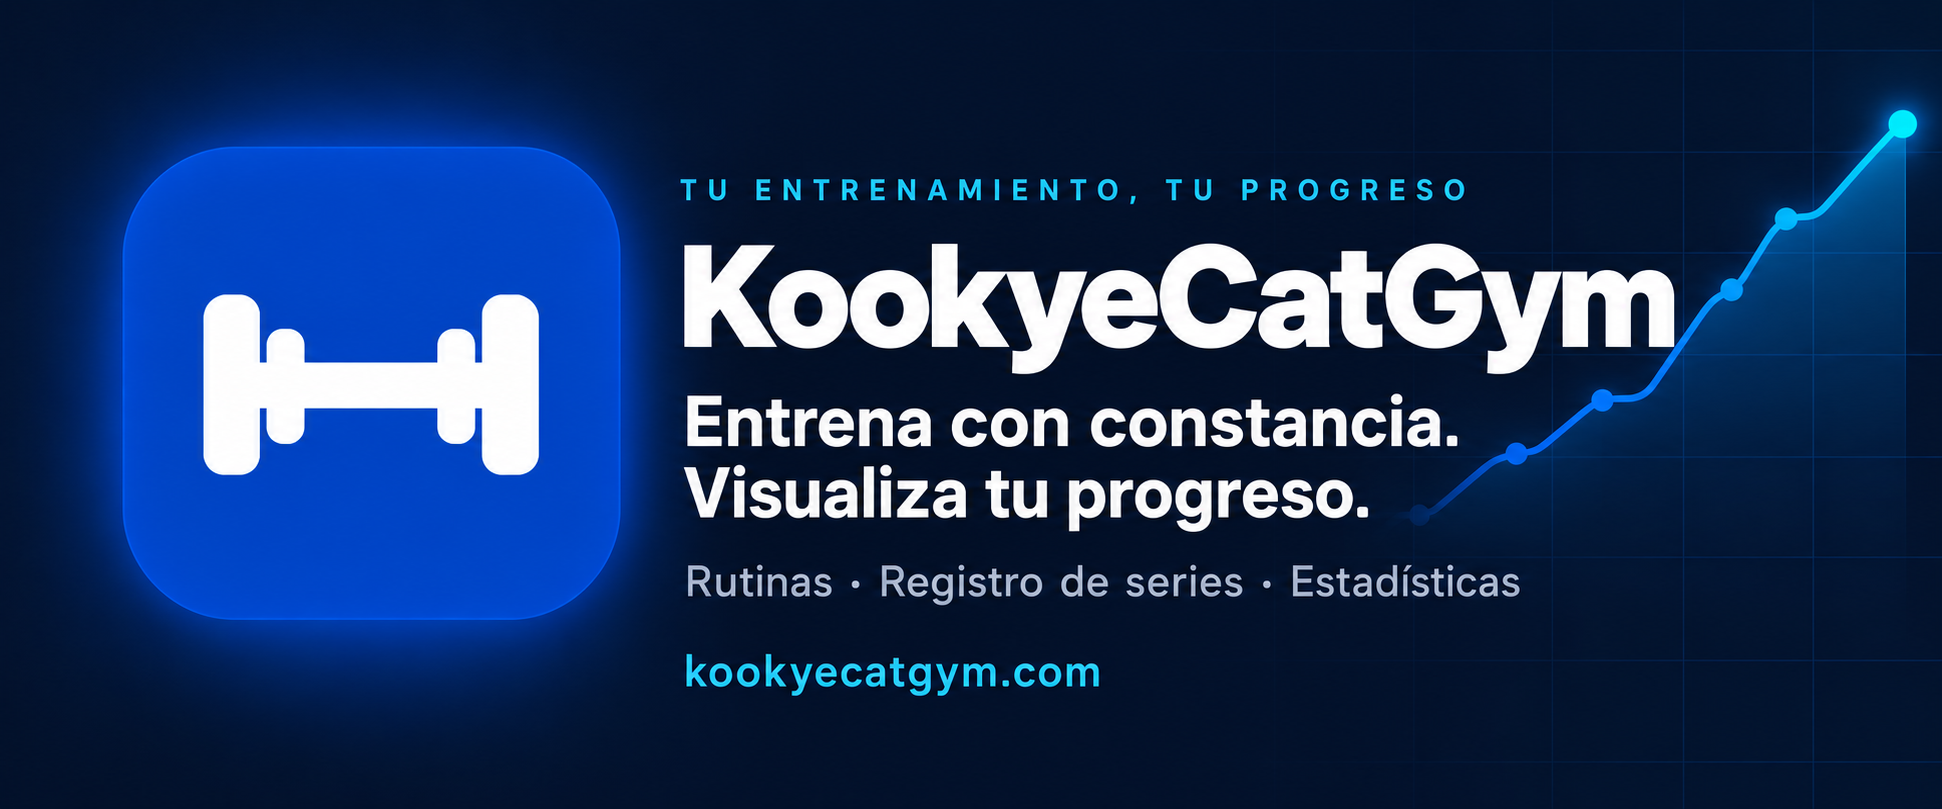
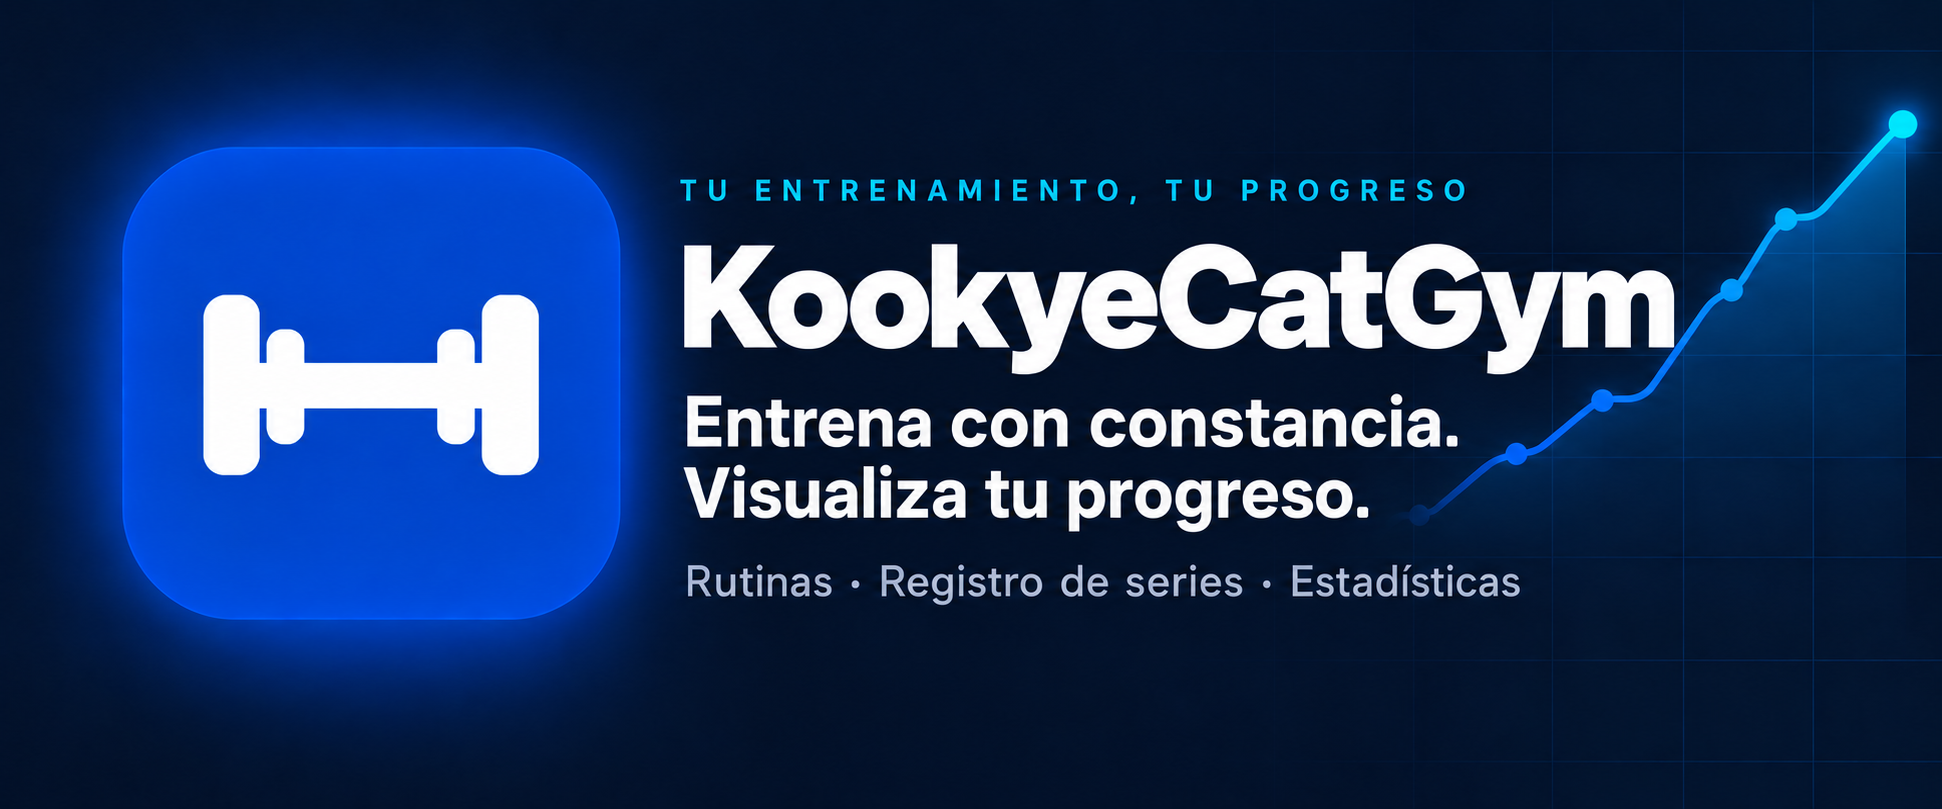
docs: elimina el enlace web del README y la portada

diff --git a/README.md b/README.md
@@ -1,7 +1,5 @@
 <p align="center">
-  <a href="https://kookyecatgym.com/">
-    <img src="docs/assets/cover.png" alt="KookyeCatGym — Entrena con constancia. Visualiza tu progreso." width="100%">
-  </a>
+  <img src="docs/assets/cover.png" alt="KookyeCatGym — Entrena con constancia. Visualiza tu progreso." width="100%">
 </p>
 
 <h1 align="center">KookyeCatGym</h1>
@@ -13,7 +11,6 @@
 </p>
 
 <p align="center">
-  <a href="https://kookyecatgym.com/"><img src="https://img.shields.io/badge/WEB-kookyecatgym.com-083398?style=for-the-badge&logo=googlechrome&logoColor=white" alt="Web: kookyecatgym.com"></a>
   <a href="LICENSE"><img src="https://img.shields.io/badge/LICENCIA-MIT-2563eb?style=for-the-badge" alt="Licencia del código: MIT"></a>
   <a href="public/manifest.json"><img src="https://img.shields.io/badge/PWA-INSTALABLE-7c3aed?style=for-the-badge&logo=pwa&logoColor=white" alt="PWA instalable"></a>
 </p>
@@ -26,8 +23,6 @@
   <img src="https://img.shields.io/badge/PHP-8%2B-777bb4?logo=php&logoColor=white" alt="PHP 8 o superior">
   <img src="https://img.shields.io/badge/SQLite-003b57?logo=sqlite&logoColor=white" alt="SQLite">
 </p>
-
-<h3 align="center"><a href="https://kookyecatgym.com/">🚀 Abrir KookyeCatGym</a></h3>
 
 <p align="center">
   <a href="#requisitos">Instalación</a> ·
